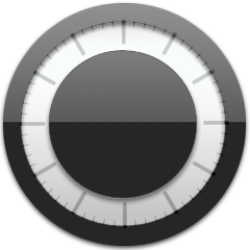
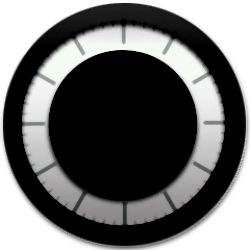
new clocks

diff --git a/src/MyForm.java b/src/MyForm.java
@@ -52,6 +52,8 @@ public class MyForm {
                 "my_clock_minute.png", "my_clock_sec.png"));
         combMod.addElement (new ImageSet ("Clean", "clean_dial.png", "clean_hour.png",
                 "clean_minute.png", "clean_sec.png"));
+        combMod.addElement (new ImageSet ("Winter", "winter_clock_dial.png", "winter_clock_hour.png",
+                "winter_clock_minute.png", "winter_clock_sec.png"));
 
         comboBox.setModel (combMod);
 
